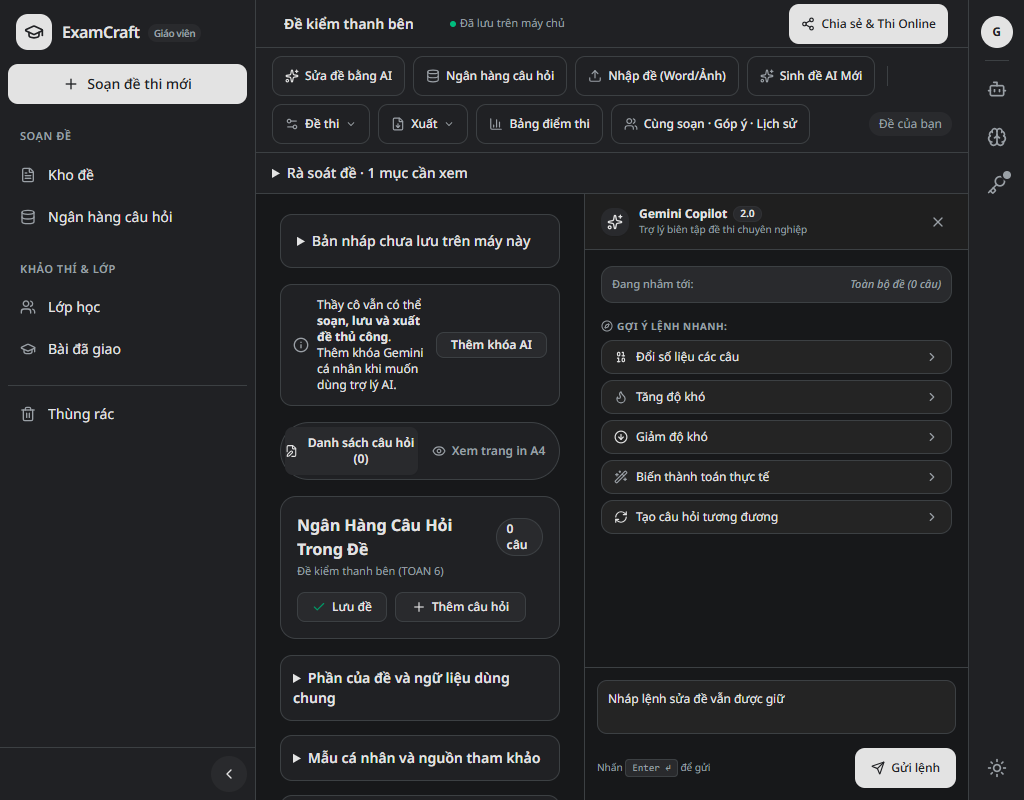
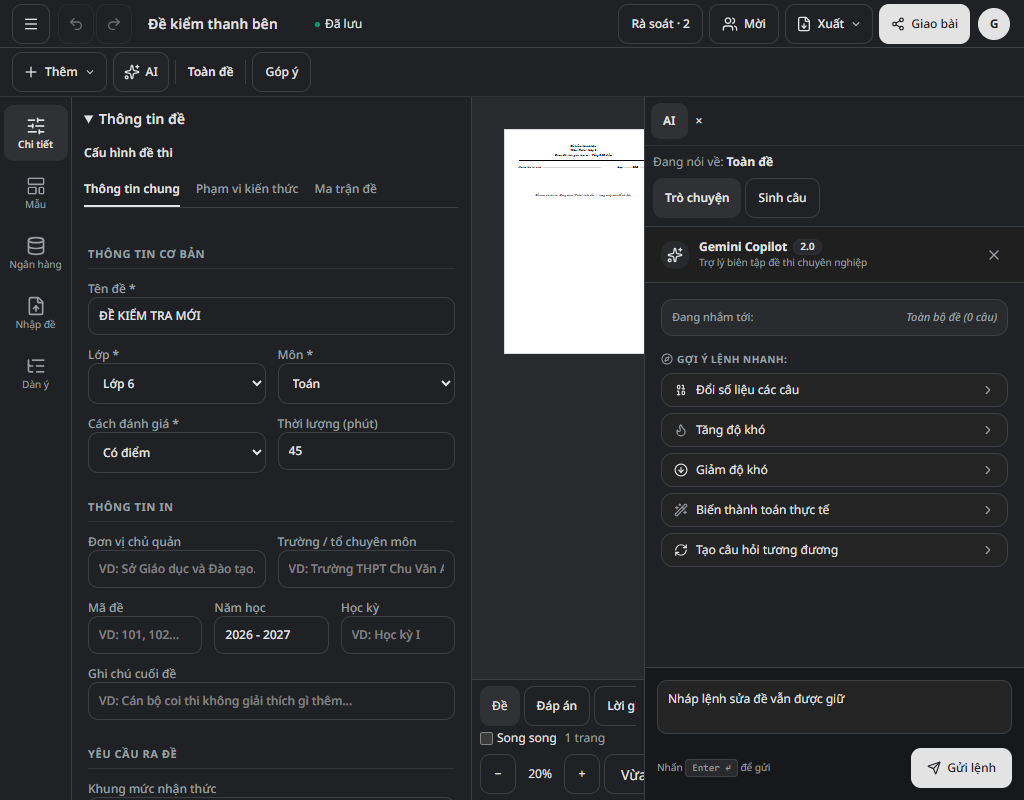
wip: frame test for one AI panel

diff --git a/tests_pilot/frame.test.ts b/tests_pilot/frame.test.ts
@@ -1,4 +1,4 @@
-import { toggleTheme, openAccount, openAssistant, openCopilot } from './editor-ui';
+import { toggleTheme, openAccount, openCopilot } from './editor-ui';
 import test from 'node:test';
 import assert from 'node:assert/strict';
 import fs from 'node:fs';
@@ -60,21 +60,20 @@ test('frame: persistent menu, document toolbar and non-overlapping assistant pan
       await account.getByRole('button', { name: 'Đăng xuất', exact: true }).waitFor();
       await page.locator('div.fixed.inset-0.z-40').click({ position: { x: 400, y: 400 } });
       const before = await page.locator('.workspace-column').boundingBox();
-      await openAssistant(page); await assistant().waitFor();
-      const center = await page.locator('.workspace-column').boundingBox(), dock = await assistant().boundingBox();
-      assert.ok(before && center && dock && before.width - center.width >= 380 && center.x + center.width <= dock.x + 1);
-      assert.equal(await assistant().getByRole('button', { name: /Xem hồ sơ|^Xem$|Ghi chú|Khóa/ }).count(), 0);
-      assert.equal(await assistant().getByText('Đang áp dụng Hồ sơ phong cách riêng của Thầy/Cô', { exact: true }).count(), 0);
-      await assistant().getByPlaceholder(/^Hỏi Thư ký AI/).fill('Nháp hỏi đáp vẫn được giữ');
-      await edit().click(); await page.locator('#right-copilot-input').waitFor(); assert.equal(await assistant().count(), 0);
+      // The old chat drawer is gone from the editor: the AI button opens the one AI panel beside the sheet.
+      assert.equal(await assistant().count(), 0);
+      await edit().click(); await page.locator('#right-copilot-input').waitFor();
+      const aiPanel = page.getByRole('complementary', { name: 'Bảng bên phải', exact: true }), dock = await aiPanel.boundingBox();
+      assert.ok(before && dock && dock.width >= 300 && dock.x + dock.width <= before.x + before.width + 1);
+      assert.equal(await page.getByRole('region', { name: 'Bảng AI', exact: true }).getByText('Đang nói về:').count(), 1);
+      assert.equal(await assistant().count(), 0);
       await page.locator('#right-copilot-input').fill('Nháp lệnh sửa đề vẫn được giữ');
-      await openAssistant(page); await assistant().waitFor(); assert.equal(await page.locator('#right-copilot-input').isVisible(), false);
-      assert.equal(await assistant().getByPlaceholder(/^Hỏi Thư ký AI/).inputValue(), 'Nháp hỏi đáp vẫn được giữ');
-      await page.screenshot({ path: report + '/editor-chat-1440.png' });
+      await page.getByRole('button', { name: 'Đóng AI', exact: true }).click(); await aiPanel.waitFor({ state: 'hidden' });
       await edit().click(); await page.locator('#right-copilot-input').waitFor();
       assert.equal(await page.locator('#right-copilot-input').inputValue(), 'Nháp lệnh sửa đề vẫn được giữ');
+      await page.screenshot({ path: report + '/editor-chat-1440.png' });
       await fitting(); await page.screenshot({ path: report + '/editor-copilot-1440.png' });
-      await page.getByRole('button', { name: 'Đóng trợ lý sửa đề', exact: true }).click();
+      await page.getByRole('button', { name: 'Đóng AI', exact: true }).click();
     });
     await t.test('phone panels close by keyboard, fit themes and preserve the exam', async () => {
       for (const [width, height] of [[1024, 800], [375, 812], [320, 740], [568, 320]]) {
@@ -85,16 +84,6 @@ test('frame: persistent menu, document toolbar and non-overlapping assistant pan
           const account = page.getByRole('region', { name: 'Tài khoản', exact: true }); await account.waitFor();
           const accountBox = await account.boundingBox(); assert.ok(accountBox && accountBox.x >= 0 && accountBox.x + accountBox.width <= width);
           await page.keyboard.press('Escape'); await account.waitFor({ state: 'hidden' });
-          await openAssistant(page);
-          const panel = page.getByRole(width >= 1024 ? 'complementary' : 'dialog', { name: 'Hỏi đáp với Trợ lý AI', exact: true }); await panel.waitFor();
-          if (width < 1024) {
-            assert.equal(await panel.getAttribute('aria-modal'), 'true');
-            await panel.getByRole('button', { name: 'Đóng hỏi đáp AI', exact: true }).press('Shift+Tab');
-            assert.equal(await panel.evaluate(el => el.contains(document.activeElement)), true);
-          }
-          await fitting(); await page.screenshot({ path: `${report}/chat-${width}-${dark ? 'dark' : 'light'}.png` });
-          await panel.getByRole('button', { name: 'Đóng hỏi đáp AI', exact: true }).press('Escape');
-          await panel.waitFor({ state: 'hidden' });
           await openCopilot(page);
           const copilot = page.getByRole(width >= 1024 ? 'complementary' : 'dialog', { name: 'Trợ lý và công cụ nhanh', exact: true }); await copilot.waitFor();
           await fitting(); await page.screenshot({ path: `${report}/copilot-${width}-${dark ? 'dark' : 'light'}.png` });
